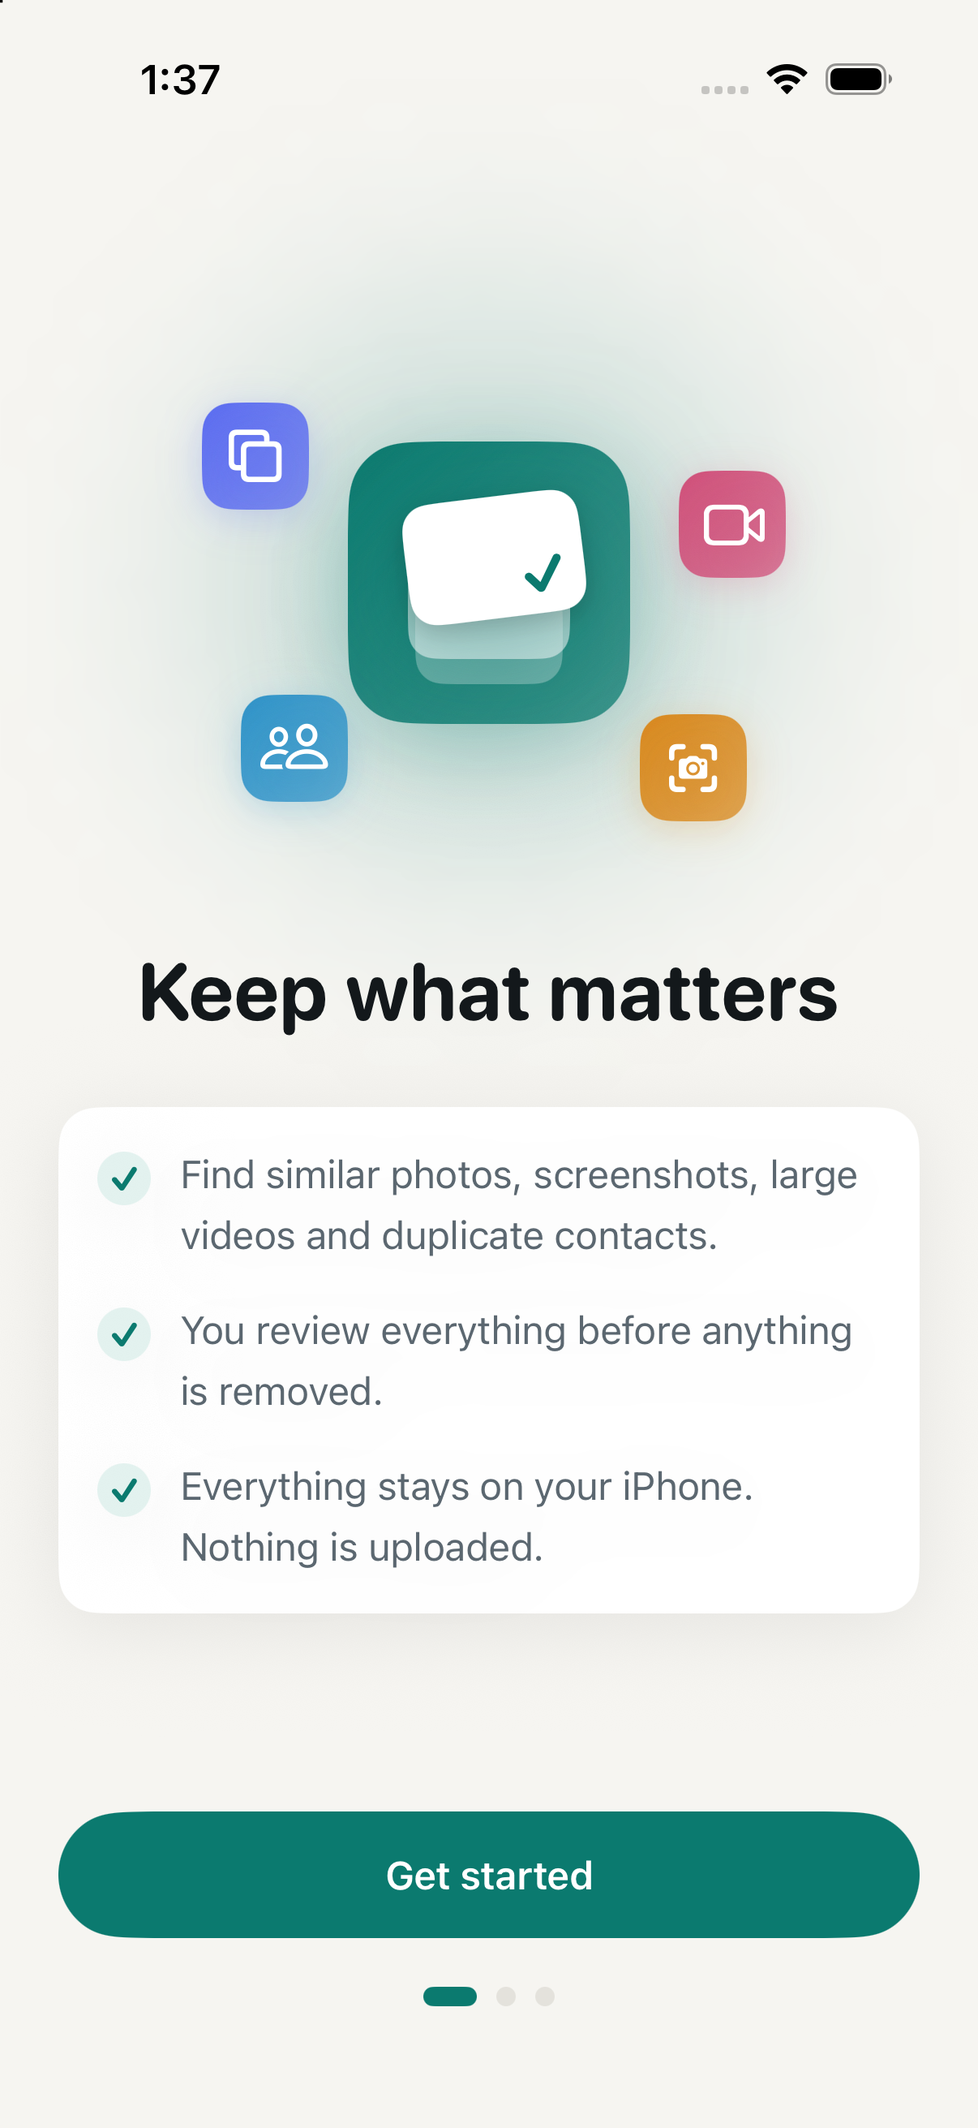
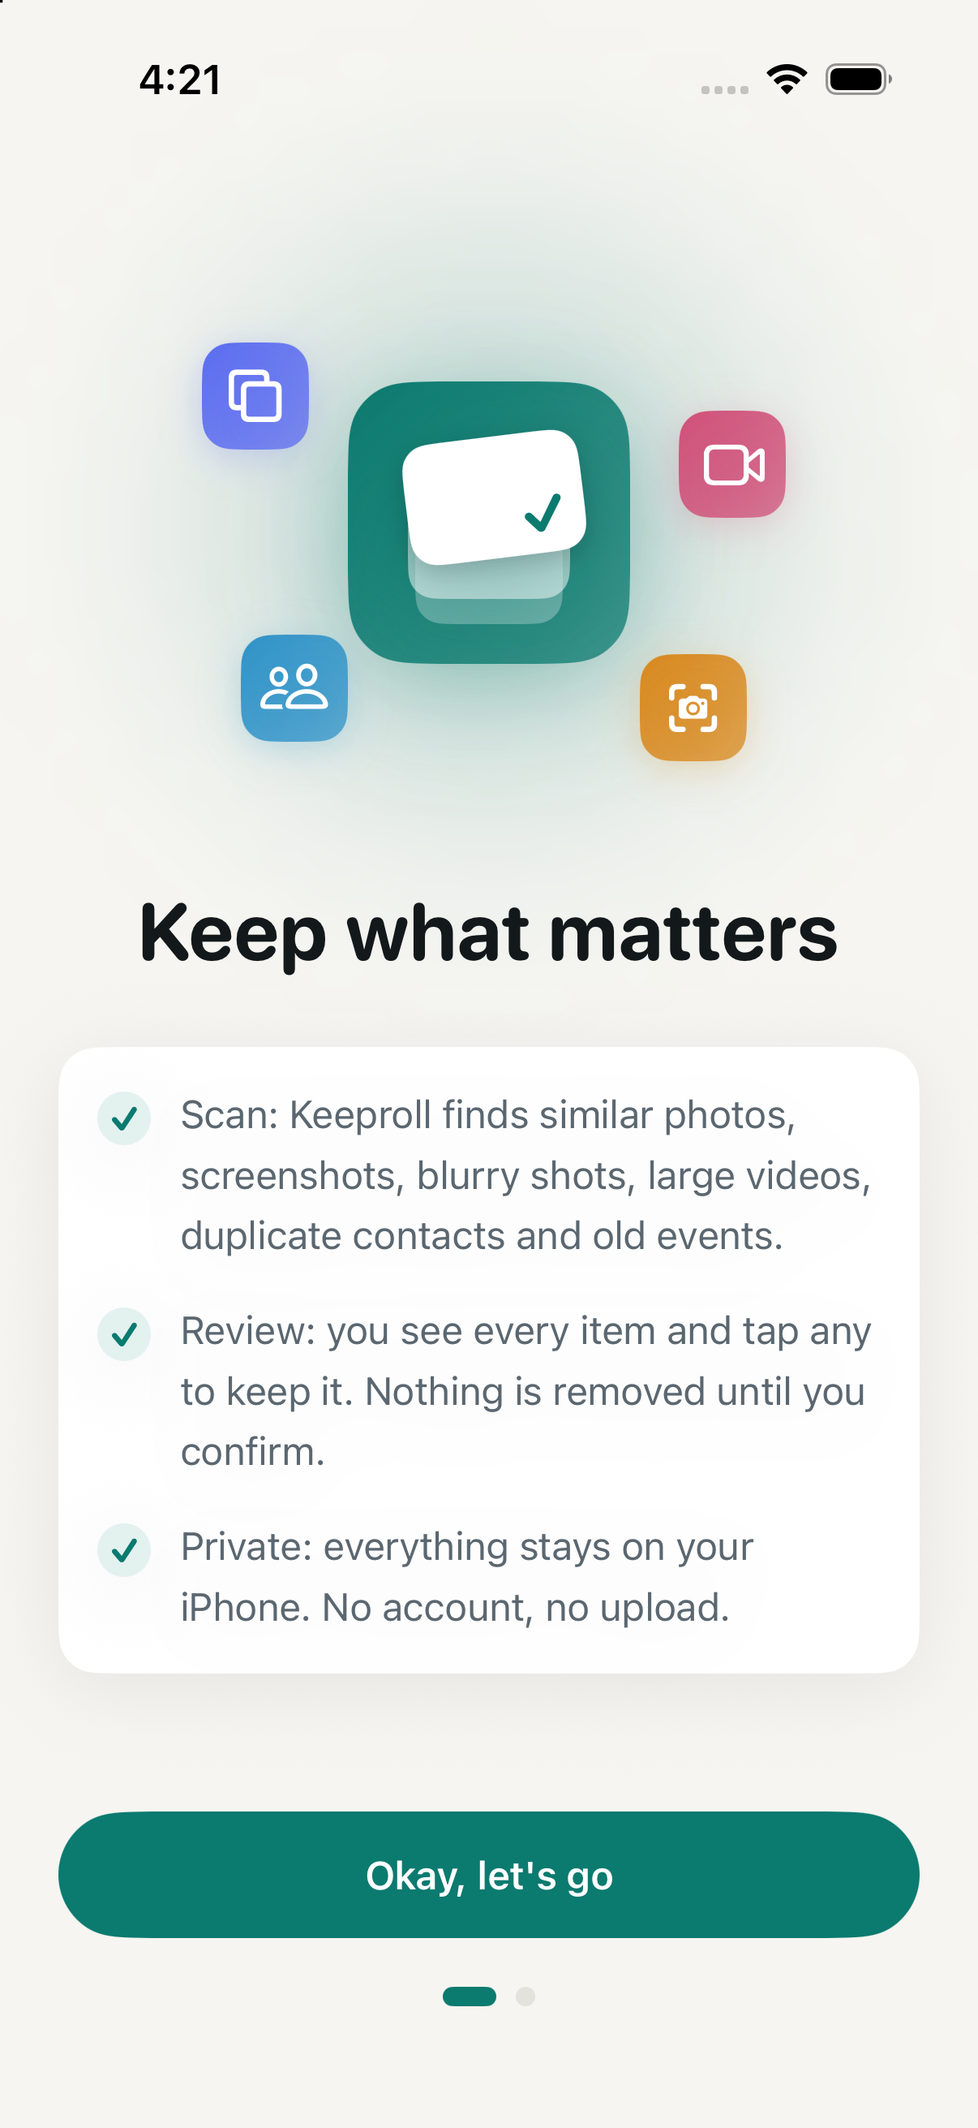
feat(onboarding): two pages, all permissions set up in one place (FR-PERM-1..3)
Welcome explains the loop (Scan, Review, Private) and leads to a single
"Set up access" page: Photos, Contacts and Calendar rows with per-row
Allow, an "Allow all" that sequences the three system prompts, and
"Start using Keeproll" once every prompt is answered. Calendar access
is now requested at first run instead of on its own screen. Old Photos
and Contacts primer pages removed. Build number 2 for TestFlight.

Verified on a fresh install with privacy reset; 59 tests, gates clean.

diff --git a/Keeproll/Features/Onboarding/AccessSetupView.swift b/Keeproll/Features/Onboarding/AccessSetupView.swift
@@ -1,0 +1,164 @@
+import Observation
+import SwiftUI
+
+/// Onboarding page 2: every permission in one place. "Allow all" walks through the
+/// three system prompts in order; each row can also be allowed on its own. Nothing here
+/// blocks the user: "Not now" still enters the app (FR-PERM-1…3).
+@Observable
+final class AccessSetupViewModel {
+    enum Item: CaseIterable, Identifiable {
+        case photos, contacts, calendar
+        var id: Self { self }
+    }
+
+    private let scanStore: ScanStore
+    private(set) var requesting: Item?
+
+    init(scanStore: ScanStore) { self.scanStore = scanStore }
+
+    func state(_ item: Item) -> PermissionState {
+        switch item {
+        case .photos: scanStore.photosPermission
+        case .contacts: scanStore.contactsPermission
+        case .calendar: scanStore.calendarPermission
+        }
+    }
+
+    /// Every prompt has been answered one way or another.
+    var allDecided: Bool { Item.allCases.allSatisfy { state($0) != .notDetermined } }
+    var anyGranted: Bool { Item.allCases.contains { state($0).canRead } }
+
+    func request(_ item: Item) async {
+        guard state(item) == .notDetermined else { SystemActions.openSettings(); return }
+        requesting = item
+        switch item {
+        case .photos: await scanStore.requestPhotos()
+        case .contacts: await scanStore.requestContacts()
+        case .calendar: await scanStore.requestCalendar()
+        }
+        requesting = nil
+    }
+
+    /// Photos first (it matters most), then contacts, then calendar. Skips decided ones.
+    func requestAll() async {
+        for item in Item.allCases where state(item) == .notDetermined {
+            await request(item)
+        }
+    }
+}
+
+struct AccessSetupPage: View {
+    @State private var vm: AccessSetupViewModel
+    let onFinish: () -> Void
+
+    init(scanStore: ScanStore, onFinish: @escaping () -> Void) {
+        _vm = State(initialValue: AccessSetupViewModel(scanStore: scanStore))
+        self.onFinish = onFinish
+    }
+
+    var body: some View {
+        VStack(spacing: Spacing.xl) {
+            Spacer(minLength: 0)
+            OnboardingHero.Access()
+            VStack(spacing: Spacing.xs) {
+                Text("Set up access")
+                    .font(.system(.largeTitle, design: .rounded, weight: .bold))
+                    .foregroundStyle(Color.keeproll.inkPrimary)
+                    .multilineTextAlignment(.center)
+                    .fixedSize(horizontal: false, vertical: true)
+                Text("Keeproll reads these on your iPhone only. Nothing is uploaded, and nothing is removed until you confirm on Review.")
+                    .font(Font.keeproll.body)
+                    .foregroundStyle(Color.keeproll.inkSecondary)
+                    .multilineTextAlignment(.center)
+                    .fixedSize(horizontal: false, vertical: true)
+            }
+            VStack(spacing: 0) {
+                ForEach(Array(AccessSetupViewModel.Item.allCases.enumerated()), id: \.element) { index, item in
+                    row(item)
+                    if index < AccessSetupViewModel.Item.allCases.count - 1 {
+                        Divider().overlay(Color.keeproll.hairline).padding(.leading, 36 + Spacing.s)
+                    }
+                }
+            }
+            .card()
+            Spacer(minLength: 0)
+            VStack(spacing: Spacing.s) {
+                if vm.allDecided {
+                    PrimaryButton(title: "Start using Keeproll", systemImage: "arrow.right", action: onFinish)
+                } else {
+                    PrimaryButton(title: "Allow all", systemImage: "checkmark.shield", isLoading: vm.requesting != nil) {
+                        Task { await vm.requestAll() }
+                    }
+                    Button("Not now", action: onFinish)
+                        .font(Font.keeproll.headline)
+                        .foregroundStyle(Color.keeproll.inkSecondary)
+                        .frame(minHeight: Layout.minTouchTarget)
+                }
+            }
+        }
+        .padding(.horizontal, Spacing.xl)
+        .padding(.bottom, Spacing.l)
+        .animation(Motion.standard, value: vm.allDecided)
+    }
+
+    private func row(_ item: AccessSetupViewModel.Item) -> some View {
+        let state = vm.state(item)
+        return HStack(spacing: Spacing.s) {
+            Image(systemName: symbol(item))
+                .font(.headline.weight(.semibold))
+                .foregroundStyle(.white)
+                .frame(width: 36, height: 36)
+                .background(KeeprollGradient.tile(tint(item)), in: RoundedRectangle(cornerRadius: 10, style: .continuous))
+                .accessibilityHidden(true)
+            VStack(alignment: .leading, spacing: 1) {
+                Text(title(item)).font(Font.keeproll.headline).foregroundStyle(Color.keeproll.inkPrimary)
+                Text(reason(item)).font(Font.keeproll.caption).foregroundStyle(Color.keeproll.inkSecondary)
+                    .fixedSize(horizontal: false, vertical: true)
+            }
+            Spacer(minLength: Spacing.s)
+            trailing(item, state)
+        }
+        .padding(.vertical, Spacing.s)
+        .accessibilityElement(children: .combine)
+    }
+
+    @ViewBuilder private func trailing(_ item: AccessSetupViewModel.Item, _ state: PermissionState) -> some View {
+        if vm.requesting == item {
+            ProgressView().controlSize(.small)
+        } else if state.canRead {
+            Image(systemName: "checkmark.circle.fill")
+                .font(.title3)
+                .foregroundStyle(Color.keeproll.success)
+                .accessibilityLabel(Text("Allowed"))
+        } else if state == .notDetermined {
+            Button("Allow") { Task { await vm.request(item) } }
+                .font(Font.keeproll.caption.weight(.semibold))
+                .foregroundStyle(Color.keeproll.accent)
+                .padding(.horizontal, Spacing.s).padding(.vertical, Spacing.xs)
+                .background(Color.keeproll.accentSoft, in: Capsule())
+                .buttonStyle(.plain)
+        } else {
+            Button("Settings") { SystemActions.openSettings() }
+                .font(Font.keeproll.caption.weight(.semibold))
+                .foregroundStyle(Color.keeproll.inkSecondary)
+                .buttonStyle(.plain)
+        }
+    }
+
+    private func symbol(_ item: AccessSetupViewModel.Item) -> String {
+        switch item { case .photos: "photo.on.rectangle"; case .contacts: "person.2"; case .calendar: "calendar" }
+    }
+    private func tint(_ item: AccessSetupViewModel.Item) -> Color {
+        switch item { case .photos: Color.keeproll.catSimilar; case .contacts: Color.keeproll.catContacts; case .calendar: Color.keeproll.catCalendar }
+    }
+    private func title(_ item: AccessSetupViewModel.Item) -> LocalizedStringResource {
+        switch item { case .photos: "Photos"; case .contacts: "Contacts"; case .calendar: "Calendar" }
+    }
+    private func reason(_ item: AccessSetupViewModel.Item) -> LocalizedStringResource {
+        switch item {
+        case .photos: "Similar shots, screenshots, blurry photos and large videos"
+        case .contacts: "The same person saved more than once"
+        case .calendar: "Duplicate events and events over a year old"
+        }
+    }
+}

diff --git a/Keeproll/Features/Onboarding/OnboardingView.swift b/Keeproll/Features/Onboarding/OnboardingView.swift
@@ -1,12 +1,12 @@
 import SwiftUI
 
-/// Welcome → Photos primer → Contacts primer (skippable). FR-PERM-1…3.
+/// Welcome (how it works) → Set up access (Photos, Contacts, Calendar in one place). FR-PERM-1…3.
 struct OnboardingView: View {
     let env: AppEnvironment
     @State private var step: Step = .welcome
     @Environment(\.accessibilityReduceMotion) private var reduceMotion
 
-    enum Step: Int, CaseIterable { case welcome, photos, contacts }
+    enum Step: Int, CaseIterable { case welcome, access }
 
     var body: some View {
         ZStack {
@@ -15,8 +15,7 @@ struct OnboardingView: View {
                 Group {
                     switch step {
                     case .welcome: welcome
-                    case .photos: photos
-                    case .contacts: contacts
+                    case .access: AccessSetupPage(scanStore: env.scanStore, onFinish: finish)
                     }
                 }
                 .id(step)
@@ -48,50 +47,12 @@ struct OnboardingView: View {
             hero: .custom(AnyView(OnboardingHero.Welcome())),
             title: Text("Keep what matters"),
             reasons: [
-                Text("Find similar photos, screenshots, large videos and duplicate contacts."),
-                Text("You review everything before anything is removed."),
-                Text("Everything stays on your iPhone. Nothing is uploaded."),
+                Text("Scan: Keeproll finds similar photos, screenshots, blurry shots, large videos, duplicate contacts and old events."),
+                Text("Review: you see every item and tap any to keep it. Nothing is removed until you confirm."),
+                Text("Private: everything stays on your iPhone. No account, no upload."),
             ],
-            allowTitle: "Get started"
-        ) { step = .photos }
-    }
-
-    private var photos: some View {
-        PermissionPrimer(
-            hero: .custom(AnyView(OnboardingHero.Photos())),
-            title: Text("Let Keeproll look at your photos"),
-            reasons: [
-                Text("Keeproll checks photos and videos on this iPhone to find what's taking space."),
-                Text("You can choose to share only some photos. Keeproll will still work."),
-                Text("Nothing is ever deleted without your approval."),
-            ],
-            allowTitle: "Continue"
-        ) {
-            Task {
-                await env.scanStore.requestPhotos()
-                step = .contacts
-            }
-        }
-    }
-
-    private var contacts: some View {
-        PermissionPrimer(
-            hero: .custom(AnyView(OnboardingHero.Contacts())),
-            title: Text("Find duplicate contacts"),
-            reasons: [
-                Text("Keeproll can spot the same person saved more than once."),
-                Text("Merged contacts keep every number and email."),
-                Text("You can skip this and turn it on later."),
-            ],
-            allowTitle: "Continue",
-            onAllow: {
-                Task {
-                    await env.scanStore.requestContacts()
-                    finish()
-                }
-            },
-            onSkip: finish
-        )
+            allowTitle: "Okay, let's go"
+        ) { step = .access }
     }
 
     private func finish() {

diff --git a/Keeproll/Features/Onboarding/OnboardingHeroes.swift b/Keeproll/Features/Onboarding/OnboardingHeroes.swift
@@ -78,6 +78,48 @@ enum OnboardingHero {
         }
     }
 
+    /// Photos, Contacts and Calendar tiles with a shield rising between them.
+    struct Access: View {
+        @State private var shown = false
+        @Environment(\.accessibilityReduceMotion) private var reduceMotion
+
+        var body: some View {
+            ZStack {
+                Circle().fill(Color.keeproll.accent.opacity(0.12)).frame(width: 220, height: 220).blur(radius: 40)
+                HStack(spacing: Spacing.m) {
+                    tile("photo.on.rectangle", Color.keeproll.catSimilar, delay: 0.1)
+                    tile("person.2", Color.keeproll.catContacts, delay: 0.2)
+                    tile("calendar", Color.keeproll.catCalendar, delay: 0.3)
+                }
+                Image(systemName: "checkmark.shield.fill")
+                    .font(.title2.weight(.bold))
+                    .foregroundStyle(Color.keeproll.onAccent)
+                    .frame(width: 48, height: 48)
+                    .background(Color.keeproll.accent, in: Circle())
+                    .overlay(Circle().strokeBorder(Color.keeproll.canvas, lineWidth: 4))
+                    .shadow(color: Color.keeproll.accent.opacity(0.4), radius: 10, y: 4)
+                    .offset(y: 56)
+                    .scaleEffect(shown ? 1 : 0.4)
+                    .opacity(shown ? 1 : 0)
+                    .animation(reduceMotion ? nil : Motion.standard.delay(0.45), value: shown)
+            }
+            .frame(height: 200)
+            .onAppear { withAnimation(reduceMotion ? nil : Motion.standard) { shown = true } }
+        }
+
+        private func tile(_ symbol: String, _ color: Color, delay: Double) -> some View {
+            Image(systemName: symbol)
+                .font(.system(size: 30, weight: .semibold))
+                .foregroundStyle(.white)
+                .frame(width: 68, height: 68)
+                .background(KeeprollGradient.tile(color), in: RoundedRectangle(cornerRadius: 19, style: .continuous))
+                .shadow(color: color.opacity(0.3), radius: 12, y: 6)
+                .scaleEffect(shown ? 1 : 0.5)
+                .opacity(shown ? 1 : 0)
+                .animation(reduceMotion ? nil : Motion.standard.delay(delay), value: shown)
+        }
+    }
+
     /// Two copies of the same person sliding together into one.
     struct Contacts: View {
         @State private var shown = false

diff --git a/docs/DESIGN_SYSTEM.md b/docs/DESIGN_SYSTEM.md
@@ -140,7 +140,8 @@ Each component has a `#Preview` showing all of its states, in light and dark.
 | `ToolCard` | Full-width card for Swipe and Vault: gradient tile, title, two-line subtitle, chevron | `symbol`, `tint`, `title`, `subtitle` |
 | `SectionHeader` | `title` text between groups, optional trailing view | `Text`, `trailing` |
 | `SettingsView` rows | `permissionRow` (tile, name, status line, Allow/Change), `actionRow` (tinted symbol, title, subtitle, chevron), `infoRow` (label · value) inside `.card()` sections | see Settings blueprint |
-| `OnboardingHero.Welcome / Photos / Contacts` | Illustrated onboarding heroes built from the design system's own tiles, mark and badges: satellites popping around the brand tile; three fanned photos with Best; two avatars merging. Animated with `Motion.standard`/`gentle`, static under Reduce Motion. | — |
+| `OnboardingHero.Welcome / Access` (+ `Photos`, `Contacts` kept for reuse) | Illustrated onboarding heroes built from the design system's own tiles, mark and badges: satellites popping around the brand tile; the three permission tiles with a shield. Animated with `Motion.standard`, static under Reduce Motion. | — |
+| `AccessSetupPage` | Onboarding page 2: permission rows with per-row Allow, “Allow all” sequencing the system prompts, “Start using Keeproll” once all are decided | `scanStore`, `onFinish` |
 | `KeeprollMark` / `KeeprollMarkTile` | Brand mark (three stacked cards, top one lifted with a check) and the mark on its gradient tile with a soft glow. Home brand row, onboarding, Swipe “All sorted”. | `size`, `ink`, `check` |
 | `SelectableThumbnail` | A grid cell | `asset`, `isSelected`, `isBest`, `isCloudOnly`, size overlay; 44 pt minimum hit area for the check control |
 | `BestBadge` / `CloudBadge` | “Best” pill on a thumbnail; iCloud-only marker | teal fill, `star.fill` + text |
@@ -179,7 +180,7 @@ Each component has a `#Preview` showing all of its states, in light and dark.
 
 **Settings.** Reached from the gear on Home; inline title. Three `.card()` sections: **Access** (Photos, Contacts, Calendar rows with a status line in `success`/`warning`/`inkSecondary` and an Allow / Change action: first request through the system prompt, later ones open iOS Settings), a `HintRow` restating the privacy promise, **Data on this iPhone** (Clear scan cache with a confirmation, Reset freed total with a destructive confirmation, Show the welcome again), and **About** (version, purpose, privacy paragraph). No toggles: there is nothing to sync, no account, no analytics.
 
-**Onboarding.** Three screens with illustrated heroes (`OnboardingHero`): Welcome (brand tile with category tiles popping in around it) → Photos primer (three fanned photos, the front one marked Best) → Contacts primer (two avatars merging; skippable). Rounded display title, reasons in a card, one primary button, page dots.
+**Onboarding.** Two screens. **Welcome** (`OnboardingHero.Welcome`: brand tile with category tiles popping in): title “Keep what matters”, three reasons in a card that describe the loop (Scan · Review · Private), button “Okay, let’s go”. **Set up access** (`AccessSetupPage`, `OnboardingHero.Access`: Photos, Contacts and Calendar tiles with a shield): a card with one row per permission (tile, name, one-line reason, then an **Allow** pill → spinner → green check, or “Settings” if it was denied), a primary **Allow all** that walks through the three system prompts in order (Photos first), and “Not now”. Once every prompt has been answered the primary button becomes **Start using Keeproll**. Nothing here blocks entry; anything skipped can be allowed later from Settings or from the category itself.
 
 ## 10. Voice & copy
 

diff --git a/docs/DESIGN_AUDIT.md b/docs/DESIGN_AUDIT.md
@@ -90,7 +90,9 @@ v3 achieved calm by removing everything, and the owner read the result as empty.
 | E8 | **“What Keeproll checks” grid cut at the fold** (owner report): with three tiles per row, the second row sat exactly at the bottom edge on a 6.1″ screen, so the user saw a strip of icons with no names. | Replaced with one card of full rows: tile, full category name, a one-line description (or “Needs access · tap to allow”), last-known value, chevron. A list degrades gracefully at any fold; a tile grid does not. “All results” link in the section header. |
 | E9 | **No settings.** Permission status, cache and the freed total had no home; the only way to change access was to know about iOS Settings. | New Settings screen (gear on Home): Access (Photos / Contacts / Calendar with status and Allow / Change), Data on this iPhone (clear scan cache, reset freed total, replay onboarding), About (version, privacy). Selection bar hidden there. |
 
-Verified in the simulator: onboarding (3 pages, both system prompts), Home (locked, scanning, results, list of checks), Settings, Results (populated, select recommended → 18 items in the bar, contacts/calendar and tools sections), Similar, Review; light, dark and AX5. AX5 needed three fixes on Home: the ring shows a percentage and spells the bytes out under the pill, the pill becomes a rounded rectangle, and the tagline hides so the brand row fits.
+| E10 | **Permissions asked piecemeal** (owner request): photos and contacts had their own onboarding pages and calendar was only asked when its screen was opened, so the first-run flow was three pages and still incomplete. | Onboarding is two pages: how it works, then **Set up access** with all three permissions in one card, per-row Allow, an “Allow all” that sequences the system prompts, and “Start using Keeproll” once every prompt is answered. Calendar is now asked up front. |
+
+Verified in the simulator: onboarding (2 pages; Allow all → Photos → Contacts → Calendar prompts → green checks → Start), Home (locked, scanning, results, list of checks), Settings, Results (populated, select recommended → 18 items in the bar, contacts/calendar and tools sections), Similar, Review; light, dark and AX5. AX5 needed three fixes on Home: the ring shows a percentage and spells the bytes out under the pill, the pill becomes a rounded rectangle, and the tagline hides so the brand row fits.
 
 ---
 

diff --git a/.claude-progress.md b/.claude-progress.md
@@ -91,3 +91,9 @@
 **Blockers**: None.
 **Next steps**: Record the demo; device pass; TestFlight build 2 with this change.
 **Files changed**: Features/Home/{HomeView,HomeViewModel}.swift, Features/Settings/SettingsView.swift, App/{AppRouter,RootView}.swift, Services/Persistence/SettingsStore.swift, docs/*.
+
+## 2026-09-26 — Onboarding: two pages, all permissions in one place
+**What was done**: Owner asked for "explain, then set up everything, then go in". Onboarding is now Welcome (reasons rewritten as Scan · Review · Private, button "Okay, let's go") → AccessSetupPage (Photos / Contacts / Calendar rows with per-row Allow, "Allow all" sequencing the three system prompts photos-first, "Not now", and "Start using Keeproll" once all are decided). OnboardingHero.Access added; the old Photos/Contacts primer pages removed (heroes kept). Calendar access is now requested at first run. Build number bumped to 2 for the next TestFlight upload. Simulator-verified end to end on a fresh install with privacy reset. Docs updated (blueprint, components, audit E10).
+**Blockers**: None.
+**Next steps**: Archive build 2 → TestFlight; record the demo from a fresh install.
+**Files changed**: Features/Onboarding/{OnboardingView,OnboardingHeroes,AccessSetupView}.swift, project.yml, docs/*.
